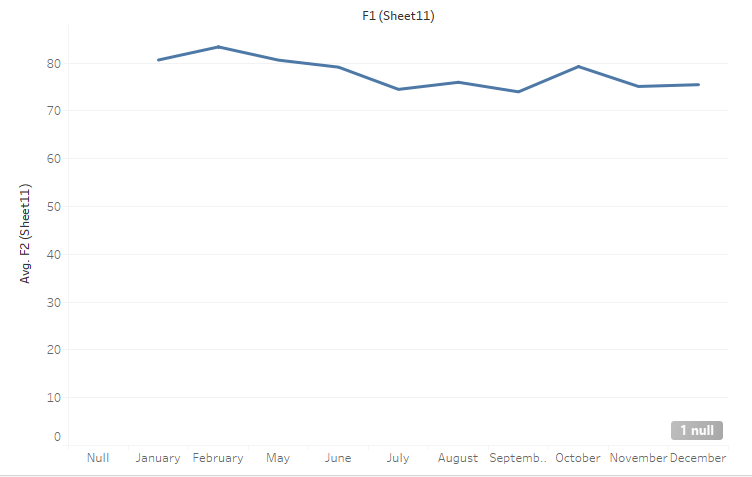
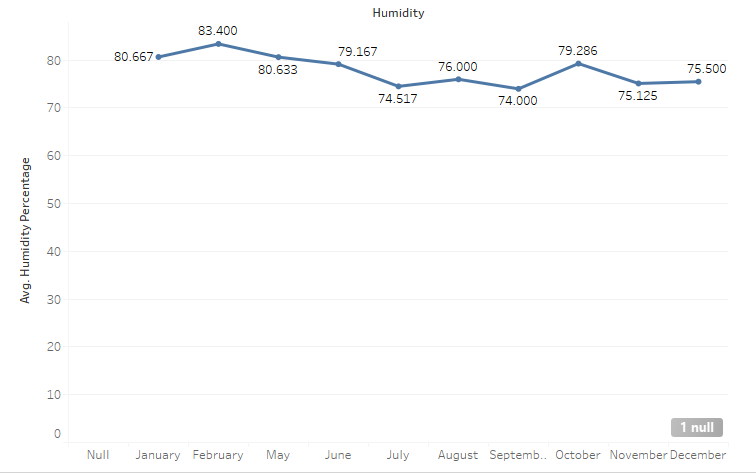
Updated invididual analysis project

diff --git a/19-analysis-RobertThomas/index.md b/19-analysis-RobertThomas/index.md
@@ -6,9 +6,12 @@ categories: [analysis]
 ---
 
 Humidity in and of itself does not have a strong correlation to cotton yields due to the fact that humidity by itself does not affect cotton. Germination of a cotton seed and the subsequent sprouting and ripening of that seed cannot be affected by the air’s relative humidity. The only thing that could possibly be affected by humidity if the quality of the cotton. For example, if the cotton was soaked through due to the humidity and therefore lost some of its inherent integrity as a fiber. However, humidity does in fact inform the analyst of one thing and that is whether there was rainfall and how frequently that rainfall was taking place. According to [Smart Fog]( https://www.smartfog.com/how-rain-and-humidity-connected.html) “When it rains, it will increase the relative humidity because of the evaporation. The air where the rain is falling may not be completely saturated with water vapor. However, the longer it rains, the more the humidity will increase because of the air constantly drawing the water.” Using this knowledge inferences can be made about rainfall as humidity increases across a certain time period and in turn see rainfalls effect on cotton yields. This roundabout, estimative way of seeing how rainfall affects cotton yields is necessary due to the fact that there is minimal rainfall data throughout the Egyptian Gazette so far as people have either not entered it in or left the template as it was. However, using this method there can at least be some inference about rainfall and its amounts and effect on cotton yield using secondary sources to add where the estimate lacks.
+
 ![Cotton Yields](Cotton.png)
-According to data gathered through Xpath queries executed on the Egyptian Gazette content repository Cotton yields were the highest in January. So high in fact that the amounts recorded outstrip the second highest value by more than twice that values amount. This implies that humidity and in turn rainfall was at optimal levels which according to [Organic cotton](https://www.organiccotton.org/oc/Cotton-general/Plant-and-fibres/Plant-requirements.php) is about 500mm of water between germination and boll formation. Yields then begin to fall to their lowest recorded in March but then rise to more than triple that amount by May. They then fall to almost half of May’s yields by July but almost rises back to May’s amounts in just one month in August but then fall by even lower than half in just one month to September. The least drastic difference occurs between September and October where compared to the other months it’s just a small rise in cotton yields.
+According to data gathered through Xpath queries executed on the Egyptian Gazette content repository which queried the tables that contained figures for cotton exports and recorded the sums found in each issue pairing them to the dates that they were found, Cotton yields were the highest in January. So high in fact that the amounts recorded outstrip the second highest value by more than twice that values amount. This implies that humidity and in turn rainfall was at optimal levels which according to [Organic cotton](https://www.organiccotton.org/oc/Cotton-general/Plant-and-fibres/Plant-requirements.php) is about 500mm of water between germination and boll formation. Yields then begin to fall to their lowest recorded in March but then rise to more than triple that amount by May. They then fall to almost half of May’s yields by July but almost rises back to May’s amounts in just one month in August but then fall by even lower than half in just one month to September. The least drastic difference occurs between September and October where compared to the other months it’s just a small rise in cotton yields.
+
 ![Humidity](Humidity.png)
 Data gathered through the same method used to find data on cotton yields on humidity yielded much less exciting results as the average humidity throughout the months looks much different than the cotton yields. However, data can still be extracted from the results gathered. The graph shows a relative decrease in the average humidity from January to July and a relative increase from July to October. The humidity then begins on a decrease again from November to December which can be inferenced to be part of the relative decrease from January to July.
+
 ![Rainfall](Rainfall.png)
-According to [trading economics](https://tradingeconomics.com/egypt/precipitation) the relative increase and decrease of precipitation in Egypt in 1907 corresponds with the relative increases and decreases in humidity as shown in the humidity percentage graph. This supports the theory that by measuring the humidity fluctuations over each month it can be estimated whether it is raining more or less in a specific time period. Through both the graph of rainfall and the graph of humidity it can be inferred that relative rainfall was decreasing from January to July and increasing from July to October. Comparing this with the cotton exports graph shows very little correlation between cotton exports and humidity. The turning points of the cotton exports graph and the relative decreases and increases found in the humidity and rainfall graphs do not line up very well in the slightest. This suggests that either humidity and rainfall in Egypt don’t affect cotton growth very much or the way that the data itself is flawed in some way. This could be further investigated by making sure every humidity and cotton export value in every table analyzed is correct when compared to the page images the date is supposed to be taken from and/or doing the same for rainfall and correcting every rainfall value to see If rainfall may be different than what was found on [trading economics](https://tradingeconomics.com/egypt/precipitation).
+According to [trading economics](https://tradingeconomics.com/egypt/precipitation) , which is an online platform that provides historical data, economic forecasts, news, and trading recommendations across 196 countries, the relative increase and decrease of precipitation in Egypt in 1907 corresponds with the relative increases and decreases in humidity as shown in the humidity percentage graph. This supports the theory that by measuring the humidity fluctuations over each month it can be estimated whether it is raining more or less in a specific time period. Through both the graph of rainfall and the graph of humidity it can be inferred that relative rainfall was decreasing from January to July and increasing from July to October. Comparing this with the cotton exports graph shows very little correlation between cotton exports and humidity. The turning points of the cotton exports graph and the relative decreases and increases found in the humidity and rainfall graphs do not line up very well in the slightest. This suggests that either humidity and rainfall in Egypt don’t affect cotton growth very much or the way that the data itself is flawed in some way. This could be further investigated by making sure every humidity and cotton export value in every table analyzed is correct when compared to the page images the date is supposed to be taken from and/or doing the same for rainfall and correcting every rainfall value to see If rainfall may be different than what was found on [trading economics](https://tradingeconomics.com/egypt/precipitation).
